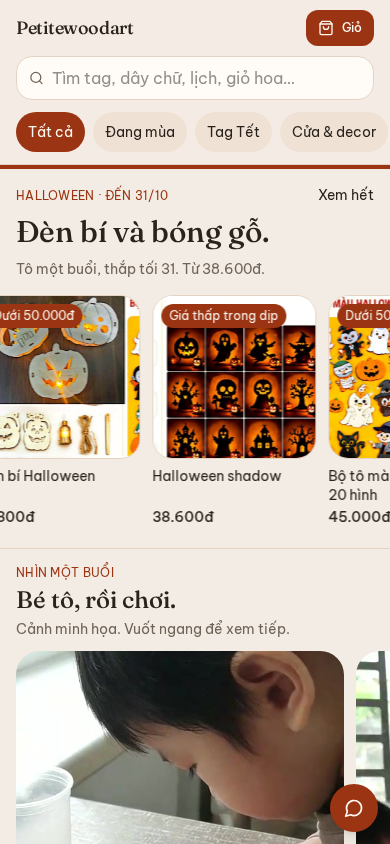
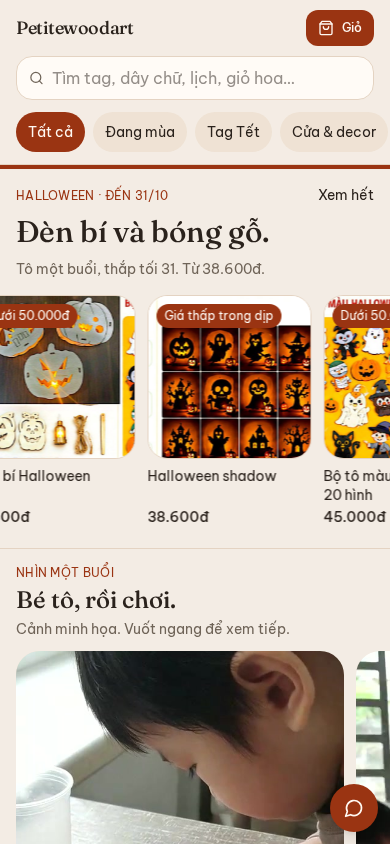
4 cap danh muc

Changed region(s): [[0.0, 0.3389, 1.0, 0.6161]]

diff --git a/server/middleware/grok-pwa.ts b/server/middleware/grok-pwa.ts
@@ -36,28 +36,36 @@ function requestHost(event: GrokPwaEvent): string {
   );
 }
 
-function injectHeadStreaming(response: Response, host: string): Response {
-  const injector = createHeadInjector({
-    host,
-    site: grokOgIdentity.site,
-  });
-  const transformed = response.body!.pipeThrough(
-    new TransformStream<Uint8Array, Uint8Array>({
-      transform(chunk, controller) {
-        for (const out of injector.push(chunk)) controller.enqueue(out);
-      },
-      flush(controller) {
-        for (const out of injector.flush()) controller.enqueue(out);
-      },
-    }),
-  );
-  const headers = new Headers(response.headers);
-  headers.delete("content-length");
-  return new Response(transformed, {
-    status: response.status,
-    statusText: response.statusText,
-    headers,
-  });
+async function injectHead(response: Response, host: string): Promise<Response> {
+  // Buffer instead of pipeThrough. On Vercel the streamed body can throw while
+  // the response is still being assembled, and Nitro turns that into a bare
+  // {"error":true,"status":500,"unhandled":true} with no page.
+  let html = "";
+  try {
+    html = await response.text();
+    const injector = createHeadInjector({
+      host,
+      site: grokOgIdentity.site,
+    });
+    const parts = [...injector.push(new TextEncoder().encode(html)), ...injector.flush()];
+    const headers = new Headers(response.headers);
+    headers.delete("content-length");
+    return new Response(Buffer.concat(parts), {
+      status: response.status,
+      statusText: response.statusText,
+      headers,
+    });
+  } catch (err) {
+    console.error("[grok-pwa] head inject failed", err);
+    if (!html) throw err;
+    const headers = new Headers(response.headers);
+    headers.delete("content-length");
+    return new Response(html, {
+      status: response.status,
+      statusText: response.statusText,
+      headers,
+    });
+  }
 }
 
 export default async function grokPwaMiddleware(
@@ -105,7 +113,7 @@ export default async function grokPwaMiddleware(
     String(result.headers.get("content-type") ?? "").includes("text/html") &&
     !result.headers.get("content-encoding")
   ) {
-    return injectHeadStreaming(result, requestHost(event));
+    return injectHead(result, requestHost(event));
   }
   return result;
 }

diff --git a/server/error-handler.ts b/server/error-handler.ts
@@ -1,0 +1,30 @@
+import { defineErrorHandler } from "nitro";
+
+function statusOf(error: { status?: number; statusCode?: number }): number {
+  const status = Number(error.status || error.statusCode || 500);
+  return status >= 400 && status <= 599 ? status : 500;
+}
+
+function escapeHtml(value: string): string {
+  return value
+    .replaceAll("&", "&")
+    .replaceAll("<", "<")
+    .replaceAll(">", ">");
+}
+
+export default defineErrorHandler((error) => {
+  const status = statusOf(error);
+  console.error("[petitewoodart]", error);
+  if (status === 404) {
+    return new Response("Không thấy trang này.", {
+      status: 404,
+      headers: { "content-type": "text/plain; charset=utf-8" },
+    });
+  }
+  const message = error instanceof Error && error.message ? error.message : "Lỗi máy chủ";
+  const body = `<!doctype html><html lang="vi"><meta charset="utf-8"><meta name="viewport" content="width=device-width, initial-scale=1"><title>Petitewoodart</title><body style="font-family:sans-serif;padding:24px;line-height:1.5"><p>Trang chưa mở được.</p><p>${escapeHtml(message)}</p></body></html>`;
+  return new Response(body, {
+    status,
+    headers: { "content-type": "text/html; charset=utf-8" },
+  });
+});

diff --git a/vite.config.ts b/vite.config.ts
@@ -175,6 +175,7 @@ export default defineConfig(({ command, isPreview }) => ({
             // manifest + head-tag middleware). Nitro v3 defaults serverDir to
             // false, so removing this silently unwires /?install=1 on deploys.
             serverDir: "./server",
+            errorHandler: "./server/error-handler.ts",
           }),
         ]
       : []),

diff --git a/src/lib/auth/server.ts b/src/lib/auth/server.ts
@@ -48,7 +48,9 @@ import {
 } from "./preview";
 
 // Kick (and share) PGLite bootstrap as soon as the auth server module loads.
-void ensureDbReady();
+void ensureDbReady().catch((err) => {
+  console.error("[auth] DB bootstrap failed:", err);
+});
 
 /**
  * Preview secret must outlive module reloads: PGLite (and its session rows) is

diff --git a/src/lib/db.ts b/src/lib/db.ts
@@ -233,6 +233,5 @@ if (typeof window === "undefined" && dbSource === "pglite") {
   globalBoot.__pgBootstrapPromise__ ??= ensureDbReady().catch((err) => {
     globalBoot.__pgBootstrapPromise__ = undefined;
     console.error("[db] PGLite bootstrap failed:", err);
-    throw err;
   });
 }
